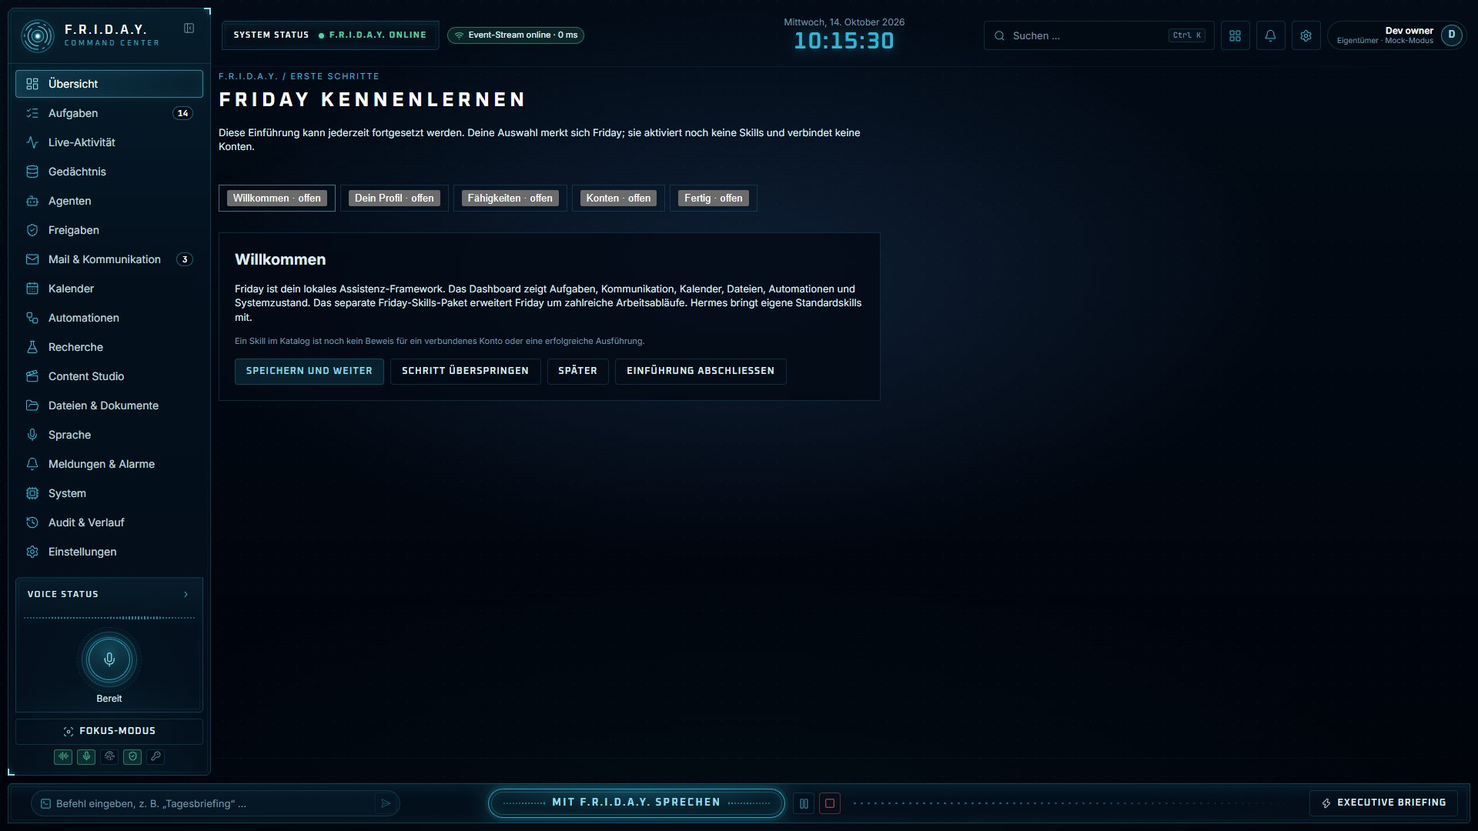
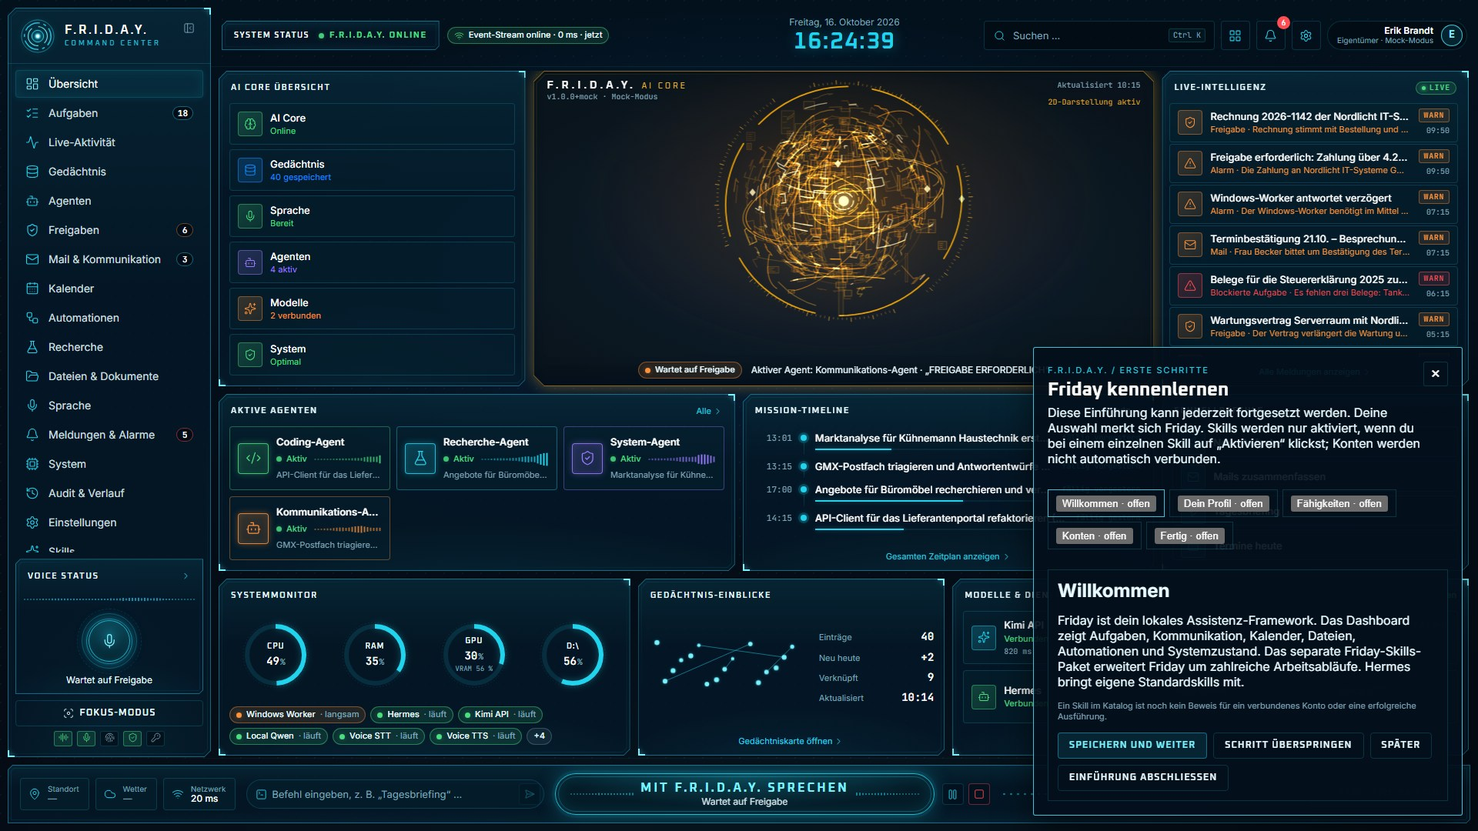
Enable explicit skill activation during onboarding

diff --git a/apps/web/src/features/skills/OnboardingPage.tsx b/apps/web/src/features/skills/OnboardingPage.tsx
@@ -7,6 +7,7 @@ import { useEffect, useMemo, useState } from "react";
 import { useOnboarding, useSkillsCatalog, useUpdateOnboarding } from "@/lib/api/domains/skills";
 import { useSession } from "@/lib/session";
 import { snoozeOnboarding } from "./onboardingSnooze";
+import { SelectedSkillActivation } from "./SelectedSkillActivation";
 import { internalSetupLink, visibleSkills } from "./skillPresentation";
 import "./skills.css";
 
@@ -80,14 +81,14 @@ export function OnboardingPage({ popup = false, onClose }: { popup?: boolean; on
   if (session.role !== "owner" || session.offline) return <div className="sk-onboarding"><h1>Einführung</h1><p>Die Einrichtung ist nur mit einem aktiven Besitzerkonto verfügbar.</p><a href="/skills">Skills ansehen</a></div>;
   if (onboarding.isPending) return <Skeleton variant="row" height={200} label="Einführung laden" />;
   if (onboarding.isError || !current) return <ErrorState compact title="Einführung konnte nicht geladen werden" description={onboarding.error?.message} onRetry={() => void onboarding.refetch()} retryLabel="Erneut versuchen" />;
-  return <div className={popup ? "sk-onboarding sk-onboarding--popup" : "sk-onboarding"}><header>{popup && <button className="sk-onboarding__close" type="button" aria-label="Einführung später fortsetzen" onClick={later}>×</button>}<p className="sk-eyebrow">F.R.I.D.A.Y. / ERSTE SCHRITTE</p>{popup ? <h2 id="sk-onboarding-title">Friday kennenlernen</h2> : <h1>Friday kennenlernen</h1>}<p>Diese Einführung kann jederzeit fortgesetzt werden. Deine Auswahl merkt sich Friday; sie aktiviert noch keine Skills und verbindet keine Konten.</p></header>
+  return <div className={popup ? "sk-onboarding sk-onboarding--popup" : "sk-onboarding"}><header>{popup && <button className="sk-onboarding__close" type="button" aria-label="Einführung später fortsetzen" onClick={later}>×</button>}<p className="sk-eyebrow">F.R.I.D.A.Y. / ERSTE SCHRITTE</p>{popup ? <h2 id="sk-onboarding-title">Friday kennenlernen</h2> : <h1>Friday kennenlernen</h1>}<p>Diese Einführung kann jederzeit fortgesetzt werden. Deine Auswahl merkt sich Friday. Skills werden nur aktiviert, wenn du bei einem einzelnen Skill auf „Aktivieren“ klickst; Konten werden nicht automatisch verbunden.</p></header>
     <ol className="sk-onboarding__steps" aria-label="Schritte">{ORDER.map((item) => <li key={item} aria-current={chosen === item ? "step" : undefined}><button type="button" onClick={() => setStep(item)}>{TITLES[item]} · {current.steps[item] === "pending" ? "offen" : current.steps[item] === "completed" ? "fertig" : item === "accounts" ? "ungeprüft" : "übersprungen"}</button></li>)}</ol>
     <section className="sk-onboarding__panel" aria-labelledby="sk-step-title"><h2 id="sk-step-title">{TITLES[chosen]}</h2>
       {chosen === "intro" && <><p>Friday ist dein lokales Assistenz-Framework. Das Dashboard zeigt Aufgaben, Kommunikation, Kalender, Dateien, Automationen und Systemzustand. Das separate Friday-Skills-Paket erweitert Friday um zahlreiche Arbeitsabläufe. Hermes bringt eigene Standardskills mit.</p><p className="sk-note">Ein Skill im Katalog ist noch kein Beweis für ein verbundenes Konto oder eine erfolgreiche Ausführung.</p></>}
       {chosen === "profile" && <><label>Wie soll Friday dich nennen?<input type="text" maxLength={80} autoComplete="name" value={name} onChange={(event) => setName(event.target.value)} /></label><fieldset><legend>Wobei soll Friday zuerst helfen?</legend><div className="sk-choice-list">{GOALS.map((goal) => <label key={goal}><input type="checkbox" checked={goals.includes(goal)} onChange={() => changeGoal(goal)} />{goal}</label>)}</div></fieldset><p className="sk-note">Dein Name wird auch als Anzeigename in den Dashboard-Einstellungen gespeichert. Deine Ziele bleiben als Onboarding-Präferenzen gespeichert; sie ändern noch kein Modellrouting.</p></>}
-      {chosen === "skills" && <><p>Wähle interessante Friday- und Hermes-Skills. Die Auswahl speichert dein Interesse, aktiviert aber keinen Skill.</p><label>Skills suchen<input type="search" value={skillSearch} onChange={(event) => setSkillSearch(event.target.value)} placeholder="Name, Beschreibung oder Kategorie" /></label>{catalog.isPending ? <Skeleton variant="row" height={80} label="Skills laden" /> : catalog.isError ? <p role="alert">Skill-Katalog nicht verfügbar. Du kannst diesen Schritt überspringen und später zurückkommen.</p> : <><p role="status">{availableSkills.length} Skills angezeigt · {availableSkills.filter((skill) => skill.source === "friday").length} Friday · {availableSkills.filter((skill) => skill.source === "hermes").length} Hermes · {selectedIds.length} ausgewählt</p><div className="sk-choice-list">{availableSkills.map((skill) => <label key={skill.id}><input type="checkbox" checked={selectedIds.includes(skill.id)} onChange={() => changeSkill(skill.id)} /><span>{skill.name}<small className="sk-muted">{skill.source === "friday" ? "Friday" : "Hermes"} · {skill.enabled === true ? "aktiviert" : skill.enabled === false ? "deaktiviert" : "Status unbekannt"}</small></span></label>)}</div></>}<a href="/skills">Alle Skills und ihren Zustand ansehen</a></>}
-      {chosen === "accounts" && <><p>Für manche Fähigkeiten sind Konten, lokale Programme oder Berechtigungen nötig. Richte nur ein, was du nutzen möchtest. Ein hinterlegter Schlüssel beweist keine funktionierende Verbindung; dieser Schritt wird beim Weitergehen als ungeprüft gespeichert.</p><AccountPrerequisites skills={selectedSkills} /><a href="/settings?area=skillAccounts">Alle Skill-Konten und Einrichtungsorte öffnen</a></>}
-      {chosen === "finish" && <><p>Friday kennt deine Auswahl und kann dich später weiter durch die Einrichtung führen. Ob ein Skill wirklich funktioniert, siehst du erst nach Prüfung seiner Voraussetzungen und einer konkreten Ausführung.</p><p>Ausgewählt: {selectedIds.length} Skills · Interessen: {goals.length}</p><a href="/skills">Zum Skill-Katalog</a></>}
+      {chosen === "skills" && <><p>Wähle interessante Friday- und Hermes-Skills. Die Auswahl speichert dein Interesse. Einen Skill aktivierst du danach einzeln über seine Schaltfläche.</p><label>Skills suchen<input type="search" value={skillSearch} onChange={(event) => setSkillSearch(event.target.value)} placeholder="Name, Beschreibung oder Kategorie" /></label>{catalog.isPending ? <Skeleton variant="row" height={80} label="Skills laden" /> : catalog.isError ? <p role="alert">Skill-Katalog nicht verfügbar. Du kannst diesen Schritt überspringen und später zurückkommen.</p> : <><p role="status">{availableSkills.length} Skills angezeigt · {availableSkills.filter((skill) => skill.source === "friday").length} Friday · {availableSkills.filter((skill) => skill.source === "hermes").length} Hermes · {selectedIds.length} ausgewählt</p><div className="sk-choice-list">{availableSkills.map((skill) => <label key={skill.id}><input type="checkbox" checked={selectedIds.includes(skill.id)} onChange={() => changeSkill(skill.id)} /><span>{skill.name}<small className="sk-muted">{skill.source === "friday" ? "Friday" : "Hermes"} · {skill.enabled === true ? "aktiviert" : skill.enabled === false ? "deaktiviert" : "Status unbekannt"}</small></span></label>)}</div></>}<SelectedSkillActivation selectedIds={selectedIds} /><a href="/skills">Alle Skills und ihren Zustand ansehen</a></>}
+      {chosen === "accounts" && <><p>Für manche Fähigkeiten sind Konten, lokale Programme oder Berechtigungen nötig. Richte nur ein, was du nutzen möchtest. Ein hinterlegter Schlüssel beweist keine funktionierende Verbindung; dieser Schritt wird beim Weitergehen als ungeprüft gespeichert.</p><SelectedSkillActivation selectedIds={selectedIds} /><AccountPrerequisites skills={selectedSkills} /><a href="/settings?area=skillAccounts">Alle Skill-Konten und Einrichtungsorte öffnen</a></>}
+      {chosen === "finish" && <><p>Friday kennt deine Auswahl und kann dich später weiter durch die Einrichtung führen. Ob ein Skill wirklich funktioniert, siehst du erst nach Prüfung seiner Voraussetzungen und einer konkreten Ausführung.</p><p>Ausgewählt: {selectedIds.length} Skills · Interessen: {goals.length}</p><SelectedSkillActivation selectedIds={selectedIds} /><a href="/skills">Zum Skill-Katalog</a></>}
       {error && <p className="sk-warning" role="alert">{error}</p>}
       <div className="sk-onboarding__actions"><Button type="button" loading={save.isPending} disabled={save.isPending} onClick={() => void persist("completed")}>{chosen === "finish" ? "Einführung abschließen" : chosen === "accounts" ? "Ungeprüft weiter" : "Speichern und weiter"}</Button><Button type="button" variant="ghost" disabled={save.isPending} onClick={() => void persist("skipped")}>Schritt überspringen</Button><Button type="button" variant="ghost" disabled={save.isPending} onClick={later}>Später</Button>{chosen !== "finish" && <Button type="button" variant="ghost" disabled={save.isPending} onClick={() => void skipIntroduction()}>Einführung abschließen</Button>}</div>
     </section>

diff --git a/apps/web/src/features/skills/SelectedSkillActivation.tsx b/apps/web/src/features/skills/SelectedSkillActivation.tsx
@@ -1,0 +1,54 @@
+"use client";
+
+import { Button } from "@friday/ui";
+import { useState } from "react";
+import { useSetSkillActivation, useSkillsCatalog } from "@/lib/api/domains/skills";
+import { skillState } from "./skillPresentation";
+
+export function SelectedSkillActivation({ selectedIds }: { selectedIds: readonly string[] }) {
+  const catalog = useSkillsCatalog();
+  const activation = useSetSkillActivation();
+  const [busyId, setBusyId] = useState<string | null>(null);
+  const [message, setMessage] = useState<string | null>(null);
+  const [error, setError] = useState<string | null>(null);
+
+  if (!selectedIds.length) return <p className="sk-muted">Noch keine Skills ausgewählt.</p>;
+
+  const skills = new Map((catalog.data?.data ?? []).map((skill) => [skill.id, skill]));
+  const toggle = async (id: string) => {
+    const skill = skills.get(id);
+    if (busyId || !skill || skill.discovered !== true || skill.enabled === null) return;
+    const enabled = !skill.enabled;
+    setBusyId(id); setMessage(null); setError(null);
+    try {
+      await activation.mutateAsync({ id, enabled });
+      const refreshed = await catalog.refetch();
+      const confirmed = refreshed.data?.data.find((item) => item.id === id);
+      if (refreshed.isError || confirmed?.discovered !== true || confirmed.enabled !== enabled) {
+        throw new Error(`Der aktuelle Hermes-Status von ${skill.name} konnte nicht bestätigt werden. Bitte Katalog erneut laden.`);
+      }
+      setMessage(`${skill.name}: ${enabled ? "Aktivierung" : "Deaktivierung"} von Hermes bestätigt. Die Ausführbarkeit ist noch nicht geprüft.`);
+    } catch (cause) {
+      setError(cause instanceof Error ? cause.message : "Skill-Status konnte nicht geändert oder bestätigt werden.");
+    } finally {
+      setBusyId(null);
+    }
+  };
+
+  return <section className="sk-selected" aria-label="Ausgewählte Skills und Aktivierung">
+    <h3>Ausgewählte Skills</h3>
+    {catalog.isPending && <p role="status">Hermes-Status wird geladen.</p>}
+    {catalog.isError && <p role="alert">Hermes-Status nicht verfügbar. Die Auswahl bleibt gespeichert; hier wird nichts aktiviert.</p>}
+    <ul className="sk-selected__list">{selectedIds.map((id) => {
+      const skill = skills.get(id);
+      const known = !catalog.isPending && !catalog.isError && skill?.discovered === true && skill.enabled !== null;
+      const state = skill ? skillState(skill) : null;
+      return <li key={id}>
+        <span><strong>{skill?.name ?? id}</strong><small>{catalog.isPending || catalog.isError ? "Status unbekannt" : state?.label ?? "Nicht im Katalog"}</small></span>
+        {known && <Button type="button" disabled={busyId !== null} loading={busyId === id} onClick={() => void toggle(id)} aria-label={`${skill.name} ${skill.enabled ? "deaktivieren" : "aktivieren"}`}>{skill.enabled ? "Deaktivieren" : "Aktivieren"}</Button>}
+      </li>;
+    })}</ul>
+    {message && <p role="status" className="sk-note">{message}</p>}
+    {error && <p role="alert" className="sk-warning">{error}</p>}
+  </section>;
+}

diff --git a/apps/web/src/features/skills/SelectedSkillActivation.test.tsx b/apps/web/src/features/skills/SelectedSkillActivation.test.tsx
@@ -1,0 +1,38 @@
+import { render, screen, waitFor } from "@testing-library/react";
+import userEvent from "@testing-library/user-event";
+import type { SkillCatalogEntry } from "@friday/sdk";
+import { afterEach, expect, it, vi } from "vitest";
+import { SelectedSkillActivation } from "./SelectedSkillActivation";
+
+const mocks = vi.hoisted(() => ({ mutateAsync: vi.fn(), refetch: vi.fn(), skills: [] as SkillCatalogEntry[] }));
+vi.mock("@/lib/api/domains/skills", () => ({
+  useSkillsCatalog: () => ({ data: { data: mocks.skills }, isPending: false, isError: false, refetch: mocks.refetch }),
+  useSetSkillActivation: () => ({ mutateAsync: mocks.mutateAsync }),
+}));
+
+const skill = (id: string, discovered: boolean | null, enabled: boolean | null) => ({
+  id, name: id, discovered, enabled,
+}) as SkillCatalogEntry;
+
+afterEach(() => { mocks.skills = []; mocks.mutateAsync.mockReset(); mocks.refetch.mockReset(); });
+
+it("changes only the explicitly selected skill and reports Hermes confirmation after refresh", async () => {
+  mocks.skills = [skill("friday:notes", true, false), skill("hermes:other", true, false)];
+  mocks.mutateAsync.mockResolvedValue({});
+  mocks.refetch.mockResolvedValue({ data: { data: [skill("friday:notes", true, true), skill("hermes:other", true, false)] }, isError: false });
+  render(<SelectedSkillActivation selectedIds={["friday:notes"]} />);
+  expect(mocks.mutateAsync).not.toHaveBeenCalled();
+  await userEvent.click(screen.getByRole("button", { name: "friday:notes aktivieren" }));
+  await waitFor(() => expect(screen.getByRole("status")).toHaveTextContent("Aktivierung von Hermes bestätigt"));
+  expect(mocks.mutateAsync).toHaveBeenCalledOnce();
+  expect(mocks.mutateAsync).toHaveBeenCalledWith({ id: "friday:notes", enabled: true });
+  expect(mocks.refetch).toHaveBeenCalledOnce();
+});
+
+it("does not offer activation for unknown, missing, or undiscovered skills", () => {
+  mocks.skills = [skill("friday:unknown", true, null), skill("friday:missing", false, false)];
+  render(<SelectedSkillActivation selectedIds={["friday:unknown", "friday:missing", "friday:absent"]} />);
+  expect(screen.queryByRole("button", { name: /aktivieren|deaktivieren/i })).toBeNull();
+  expect(screen.getByText("Nicht im Katalog")).toBeTruthy();
+  expect(mocks.mutateAsync).not.toHaveBeenCalled();
+});

diff --git a/apps/web/src/features/skills/skills.css b/apps/web/src/features/skills/skills.css
@@ -63,6 +63,13 @@
 .sk-onboarding__close:focus-visible { outline: 2px solid var(--friday-cyan); outline-offset: 2px; }
 .sk-onboarding--popup .sk-onboarding__panel { padding: 12px; }
 .sk-onboarding--popup .sk-choice-list { max-height: 230px; overflow: auto; }
+.sk-selected { display: grid; gap: 8px; min-width: 0; }
+.sk-selected h3 { margin: 0; font-size: var(--jv-fs-sm); color: var(--friday-text-strong); }
+.sk-selected__list { display: grid; gap: 6px; max-height: 230px; overflow: auto; margin: 0; padding: 0; list-style: none; }
+.sk-selected__list li { display: flex; flex-wrap: wrap; align-items: center; justify-content: space-between; gap: 8px; min-width: 0; padding: 8px; border: 1px solid var(--jv-line-soft); background: var(--jv-row-bg); }
+.sk-selected__list li span { min-width: 0; overflow-wrap: anywhere; }
+.sk-selected__list strong, .sk-selected__list small { display: block; }
+.sk-selected__list small { color: var(--friday-muted); }
 @media (max-width: 600px) { .sk-onboarding-popup { right: 8px; bottom: 8px; width: calc(100vw - 16px); max-height: min(65vh, 560px); padding: 12px; } }
 .sk-choice-list { display: grid; grid-template-columns: repeat(auto-fit,minmax(180px,1fr)); gap: 7px; }
 .sk-choice-list label { flex-direction: row; align-items: center; padding: 8px; border: 1px solid var(--jv-line-soft); background: var(--jv-row-bg); }

diff --git a/docs/START_HERE.md b/docs/START_HERE.md
@@ -35,7 +35,7 @@ Die aktuelle Installer-Testumgebung hatte 53 Hermes-Built-ins als aktiviert geme
 - **Telefonie:** ist auf der aktuellen Testinstallation nicht eingerichtet und derzeit keine verfügbare Endnutzerfunktion.
 - **E-Mail:** `installer/setup-himalaya.ps1 -Action install` installiert die optionale Himalaya-CLI im Friday-Linux-Benutzerprofil. Unter **Einstellungen → Skill-Konten** kann der Besitzer ein IMAP-/SMTP-Postfach mit Servern, Benutzername und Passwort oder App-Passwort anlegen. Unter **Kommunikation → Live-Postfach öffnen** kann er Nachrichten lesen und eine reine Textmail nach Vorschau ausdrücklich senden. Bei unklarem SMTP-Ergebnis prüfe zuerst das Anbieterpostfach: Friday wiederholt denselben Versand nicht. Die lokale Syntaxprüfung ersetzt keinen echten Anbietercheck; OAuth-pflichtige Postfächer benötigen einen anderen Connector. Die übrige Dashboard-Kommunikationsansicht hat weiterhin einen separaten Platzhalteradapter.
 
-Für all diese optionalen Funktionen können zusätzliche Anbieter-Konten, Abonnements, Zugangsdaten und Berechtigungen nötig sein. Der Installer installiert oder finanziert sie nicht automatisch. Im Dashboard öffnet **Skills** den Katalog mit Suche, Status, Voraussetzungen und Einrichtungshinweisen. **Einstellungen → Skill-Konten** fasst auch die Voraussetzungen wichtiger Hermes-Standards zusammen. Nach dem ersten Besitzer-Login fragt die Einführung nach Name, Zielen und interessanten Friday- **und** Hermes-Skills. Der gewählte Name wird als Dashboard-Anzeigename gespeichert; Ziele bleiben zunächst Präferenzen der Einführung. Sie lässt sich überspringen und später fortsetzen. Eine Auswahl aktiviert keinen Skill und verbindet kein Konto. Der Kontenschritt bleibt ohne echten Verbindungstest als ungeprüft markiert, auch wenn die Einführung abgeschlossen wird. Der [Onboarding-Plan](SKILLS_ONBOARDING_PLAN.md) dokumentiert die Grenzen.
+Für all diese optionalen Funktionen können zusätzliche Anbieter-Konten, Abonnements, Zugangsdaten und Berechtigungen nötig sein. Der Installer installiert oder finanziert sie nicht automatisch. Im Dashboard öffnet **Skills** den Katalog mit Suche, Status, Voraussetzungen und Einrichtungshinweisen. **Einstellungen → Skill-Konten** fasst auch die Voraussetzungen wichtiger Hermes-Standards zusammen. Nach dem ersten Besitzer-Login fragt die Einführung nach Name, Zielen und interessanten Friday- **und** Hermes-Skills. Der gewählte Name wird als Dashboard-Anzeigename gespeichert; Ziele bleiben zunächst Präferenzen der Einführung. Sie lässt sich überspringen und später fortsetzen. Eine Auswahl aktiviert keinen Skill und verbindet kein Konto. Für einen von Hermes gefundenen Skill mit bekanntem Zustand kann der Besitzer in der Einführung einzeln **Aktivieren** oder **Deaktivieren** wählen; Friday zeigt danach den bestätigten Zustand. Der Kontenschritt bleibt ohne echten Verbindungstest als ungeprüft markiert, auch wenn die Einführung abgeschlossen wird. Der [Onboarding-Plan](SKILLS_ONBOARDING_PLAN.md) dokumentiert die Grenzen.
 
 ## Einstellungen verstehen
 
@@ -59,4 +59,4 @@ Die Einstellungen sind lokale Anwendungsdaten und werden nicht alle in der Benut
 
 Vorhanden sind das Command Center, die lokale Control API, Adapterverträge, Mock-Betrieb sowie die Installer-Anbindungen für Hermes-Aufgaben/Aktivität/Agenten und lokale Stimme/Systemdaten. Das ist der überprüfbare Rahmen der Beta; nicht jeder im Menü sichtbare Bereich stellt eine echte Provider-Verbindung dar.
 
-Die optionale Himalaya-Einrichtung stellt einen IMAP-/SMTP-Pfad für Hermes und ein ausdrücklich zu öffnendes Dashboard-Postfach mit Lesezugriff und bestätigtem Textversand bereit; die übrige Kommunikationsansicht nutzt weiterhin Platzhalterdaten. Ein lesender iCalendar-Feed kann den Kalenderbereich mit echten Terminen versorgen, wenn der Besitzer ihn ausdrücklich einrichtet. Schreibender Kalenderzugriff, OAuth-Anbindungen für Google und Microsoft, Telefonie sowie automatische Einrichtung und Funktionsprüfung sämtlicher 105 Friday-Skills sind noch nicht allgemein verfügbar. Das integrierte Onboarding speichert den Fortschritt; seine Konto- und Skill-Auswahl ist eine Planungshilfe, keine Live-Verbindung. Der Skills-Katalog gleicht Erkennung und Aktivierung mit Hermes ab und zeigt fehlende Laufzeitdaten als unbekannt. Siehe [Projektstatus](PROJECT_STATUS.md) und [Skills-Onboarding-Plan](SKILLS_ONBOARDING_PLAN.md).
+Die optionale Himalaya-Einrichtung stellt einen IMAP-/SMTP-Pfad für Hermes und ein ausdrücklich zu öffnendes Dashboard-Postfach mit Lesezugriff und bestätigtem Textversand bereit; die übrige Kommunikationsansicht nutzt weiterhin Platzhalterdaten. Ein lesender iCalendar-Feed kann den Kalenderbereich mit echten Terminen versorgen, wenn der Besitzer ihn ausdrücklich einrichtet. Schreibender Kalenderzugriff, OAuth-Anbindungen für Google und Microsoft, Telefonie sowie automatische Einrichtung und Funktionsprüfung sämtlicher 105 Friday-Skills sind noch nicht allgemein verfügbar. Das integrierte Onboarding speichert den Fortschritt und kann einzelne bestätigte Skills ausdrücklich schalten; seine Kontoauswahl verbindet keine Anbieter automatisch. Der Skills-Katalog gleicht Erkennung und Aktivierung mit Hermes ab und zeigt fehlende Laufzeitdaten als unbekannt. Siehe [Projektstatus](PROJECT_STATUS.md) und [Skills-Onboarding-Plan](SKILLS_ONBOARDING_PLAN.md).

diff --git a/README.md b/README.md
@@ -48,7 +48,7 @@ Beide Repositories sind MIT-lizenziert. Hermes bringt zusätzlich eigene integri
 
 PowerPoint, Computer Use, Obsidian, OpenCode, Codex und Claude Code hängen von konkreten lokalen Voraussetzungen ab. Im aktuellen Testprofil waren die Hermes-Skills für PowerPoint, Computer Use, Obsidian und diese Coding-CLIs gelistet; das bedeutet allein noch keine nutzbare Integration: PowerPoint benötigt eine passende Python-Umgebung, Computer Use eine unterstützte grafische Sitzung und Freigaben, Obsidian einen eingerichteten Vault. Coding-CLIs können einzeln und optional mit [setup-coding-cli.ps1](installer/setup-coding-cli.ps1) nativ in Friday-Ubuntu installiert werden. Codex lässt sich dort mit einem unterstützten ChatGPT-Konto anmelden, Claude Code mit einem geeigneten Claude-Pro-/Max-Konto. Beide Anmeldungen gelten für die jeweilige CLI; Friday erhält dadurch keinen allgemeinen API-Zugang für andere Modellaufrufe. Versionsprüfung, Anbieteranmeldung und erfolgreicher Coding-Auftrag sind getrennte Zustände. **Telefonie ist nicht installiert und wird derzeit nicht als nutzbare Funktion angeboten.** Konten, Anbieterzugänge und Berechtigungen sind nicht enthalten.
 
-Das Dashboard zeigt unter **Skills** die Friday-Skills und die in der laufenden Hermes-Instanz gefundenen Standardskills. Suche, Filter und Details erklären Aktivierung, Voraussetzungen und Einrichtungsorte. Nach dem ersten Besitzer-Login führt eine fortsetzbare Einführung durch Profil, Ziele, interessante Skills und benötigte Konten. Unter **Einstellungen → Skill-Konten** stehen die Hinweise zu Integrationen. Dort kann der Besitzer auch einen bestehenden Windows-Obsidian-Vault mit `.obsidian`-Ordner verbinden; Friday prüft dessen WSL-Zugriff und startet Hermes neu. Der Katalog zeigt ehrlich an, wenn Laufzeit oder Verbindung nicht geprüft wurden. Ein aktivierter Skill ist noch kein Nachweis, dass sein externer Dienst funktioniert. Siehe [Einstieg und Bedienung](docs/START_HERE.md) und [Skills-Onboarding-Plan](docs/SKILLS_ONBOARDING_PLAN.md).
+Das Dashboard zeigt unter **Skills** die Friday-Skills und die in der laufenden Hermes-Instanz gefundenen Standardskills. Suche, Filter und Details erklären Aktivierung, Voraussetzungen und Einrichtungsorte. Nach dem ersten Besitzer-Login führt eine wegklickbare, fortsetzbare Einführung durch Profil, Ziele, interessante Skills und benötigte Konten. Die Auswahl merkt sich Interessen; gefundene Skills mit bekanntem Zustand kann der Besitzer dort einzeln ausdrücklich aktivieren oder deaktivieren. Friday lädt danach den von Hermes bestätigten Zustand neu. Unter **Einstellungen → Skill-Konten** stehen die Hinweise zu Integrationen. Dort kann der Besitzer auch einen bestehenden Windows-Obsidian-Vault mit `.obsidian`-Ordner verbinden; Friday prüft dessen WSL-Zugriff und startet Hermes neu. Der Katalog zeigt ehrlich an, wenn Laufzeit oder Verbindung nicht geprüft wurden. Ein aktivierter Skill ist noch kein Nachweis, dass sein externer Dienst funktioniert. Siehe [Einstieg und Bedienung](docs/START_HERE.md) und [Skills-Onboarding-Plan](docs/SKILLS_ONBOARDING_PLAN.md).
 
 Für E-Mail kann der Besitzer die optionale [Himalaya-CLI](installer/setup-himalaya.ps1) in Friday-Ubuntu installieren und unter **Einstellungen → Skill-Konten** ein IMAP-/SMTP-Postfach mit Benutzername, TLS-Servern und Passwort oder App-Passwort einrichten. Friday speichert die Passwörter nur lokal im Linux-Benutzerprofil und zeigt sie nicht wieder an. Der Friday-Skills-Installer passt den gebündelten Hermes-Mail-Skill nur bei geprüfter Himalaya- und Hermes-Version an die v2-Befehle an; eine unbekannte Upstream-Version bleibt unangetastet. In **Kommunikation** kann der Besitzer das Live-Postfach ausdrücklich öffnen, Ordner und Nachrichten lesen und es wieder schließen. Nachrichten werden dabei nicht als gelesen markiert. Dort kann er auch eine reine Textnachricht mit bis zu zehn Empfängern verfassen, die vollständige Vorschau prüfen und den SMTP-Versand ausdrücklich bestätigen. Friday hält jeden Versandauftrag dauerhaft fest und sendet ihn bei einem unklaren SMTP-Ergebnis nicht automatisch erneut; in diesem Fall zuerst beim Anbieter prüfen, ob die Mail angekommen ist. Anhänge und ein echter Versandtest sind noch nicht enthalten. Das unterstützt Anbieter, die diese Anmeldeart zulassen; Microsoft-Postfächer und andere OAuth-pflichtige Konten brauchen einen eigenen OAuth-Connector. Die Einrichtung prüft noch keinen echten Postfachzugriff oder Versand. Die übrige Kommunikationsansicht nutzt weiterhin ihren gesonderten Platzhalteradapter.
 
